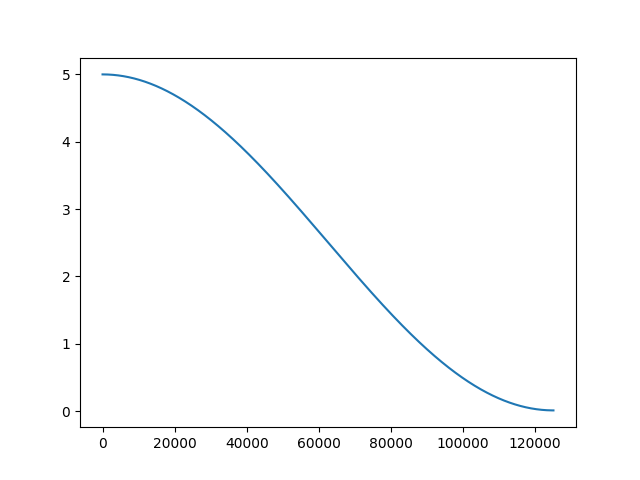
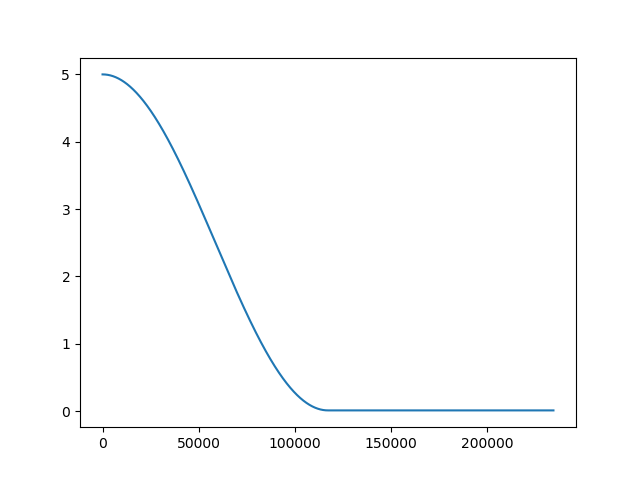
adjust temperature and target settings

diff --git a/test_temp.py b/test_temp.py
@@ -2,43 +2,54 @@ import math
 import numpy
 import matplotlib.pyplot as plt
 
-args_target_rate = 0.3
-args_epochs = 160
+args_target_rate = 0.25
+args_epochs = 300
+args_temp_scheduler = 'cosine'
+args_t0 = 5.0 
+args_t_last = 1e-2
+len_epoch = 782
+
+def adjust_gs_temperature(epoch, step, len_epoch):
+    T_total = args_epochs * len_epoch
+    T_cur = epoch * len_epoch + step
+    if args_temp_scheduler == 'exp':
+        alpha = math.pow(args_t_last/args_t0, 1/(args_epochs*len_epoch))
+        args_temp = math.pow(alpha, epoch*len_epoch+step)*args_t0
+    elif args_temp_scheduler == 'linear':
+        if epoch < args_epochs // 2:
+            args_temp = (args_t0 - args_t_last) * (1 - T_cur / (T_total/2)) + args_t_last
+        else:
+            args_temp = args_t_last
+    else:
+        if epoch < args_epochs // 2:
+            args_temp = 0.5 * (args_t0-args_t_last) * (1 + math.cos(math.pi * T_cur / (T_total/2))) + args_t_last
+        else:
+            args_temp = args_t_last
+    return args_temp
 
 def adjust_target_rate(epoch):
-    if epoch < args_epochs // 4:
-        target_rate = 1.0
-    elif epoch < args_epochs // 2:
-        target_rate = 0.8
-    elif epoch < args_epochs // 4 * 3:
-        target_rate = (args_target_rate-0.8) / (args_epochs//4) * (epoch - args_epochs // 2) + 0.8
+    if epoch < args_epochs // 6 :
+        target_rate = 0.9
+    elif epoch < args_epochs // 3:
+        target_rate = args_target_rate + (0.9 - args_target_rate) / 2
     else:
         target_rate = args_target_rate
     return target_rate
-
-t0 = 5.0
-len_epoch = 782
-def adjust_gs_temperature(epoch, step, len_epoch,temp_scheduler='linear'):
-    T_total = args_epochs * len_epoch
-    T_cur = epoch * len_epoch + step
-    if temp_scheduler == 'exp':
-        alpha = math.pow(0.01/t0, 1/(args_epochs*len_epoch))
-        temp = math.pow(alpha, epoch*len_epoch+step)*t0
-    elif temp_scheduler == 'linear':
-        temp = (t0 - 0.01) * (1 - T_cur / T_total) + 0.01
-    else:
-        temp = 0.5 * (t0-0.01) * (1 + math.cos(math.pi * T_cur / T_total)) + 0.01
-    return temp
 
 t = []
 
 for i in range(args_epochs):
     for j in range(len_epoch):
-        t.append(adjust_gs_temperature(i, j, len_epoch,temp_scheduler='cosine'))
+        t.append(adjust_gs_temperature(i, j, len_epoch))
 
-print(t[-1])
-plt.plot(t)
+# print(t[-1])
+# plt.plot(t)
+# plt.show()
+# plt.savefig('tem.png')
+
+ta = []
+for i in range(args_epochs):
+    ta.append(adjust_target_rate(i))
+plt.plot(ta)
 plt.show()
-plt.savefig('tem.png')
-# for i in range(110):
-#     print(adjust_target_rate(i))
+plt.savefig('target_rate.png')

diff --git a/main_sar_cifar_optim_rate.py b/main_sar_cifar_optim_rate.py
@@ -529,19 +529,27 @@ def adjust_gs_temperature(epoch, step, len_epoch, args):
         alpha = math.pow(args.t_last/args.t0, 1/(args.epochs*len_epoch))
         args.temp = math.pow(alpha, epoch*len_epoch+step)*args.t0
     elif args.temp_scheduler == 'linear':
-        args.temp = (args.t0 - args.t_last) * (1 - T_cur / T_total) + args.t_last
+        if epoch < args.epochs // 2:
+            args.temp = (args.t0 - args.t_last) * (1 - T_cur / (T_total/2)) + args.t_last
+        else:
+            args.temp = args.t_last
     else:
-        args.temp = 0.5 * (args.t0-args.t_last) * (1 + math.cos(math.pi * T_cur / T_total)) + args.t_last
+        if epoch < args.epochs // 2:
+            args.temp = 0.5 * (args.t0-args.t_last) * (1 + math.cos(math.pi * T_cur / (T_total/2))) + args.t_last
+        else:
+            args.temp = args.t_last
 
 def adjust_target_rate(epoch, args):
     if not args.dynamic_rate > 0:
         return args.target_rate
-
-    if epoch < args.optimize_rate_begin_epoch:
-        target_rate = 1.0
     else:
-        target_rate = args.target_rate
-    return target_rate
+        if epoch < args.epochs // 6 :
+            target_rate = 0.9
+        elif epoch < args.epochs // 3:
+            target_rate = args.target_rate + (0.9 - args.target_rate) / 2
+        else:
+            target_rate = args.target_rate
+        return target_rate
 
 if __name__ == '__main__':
     main()
